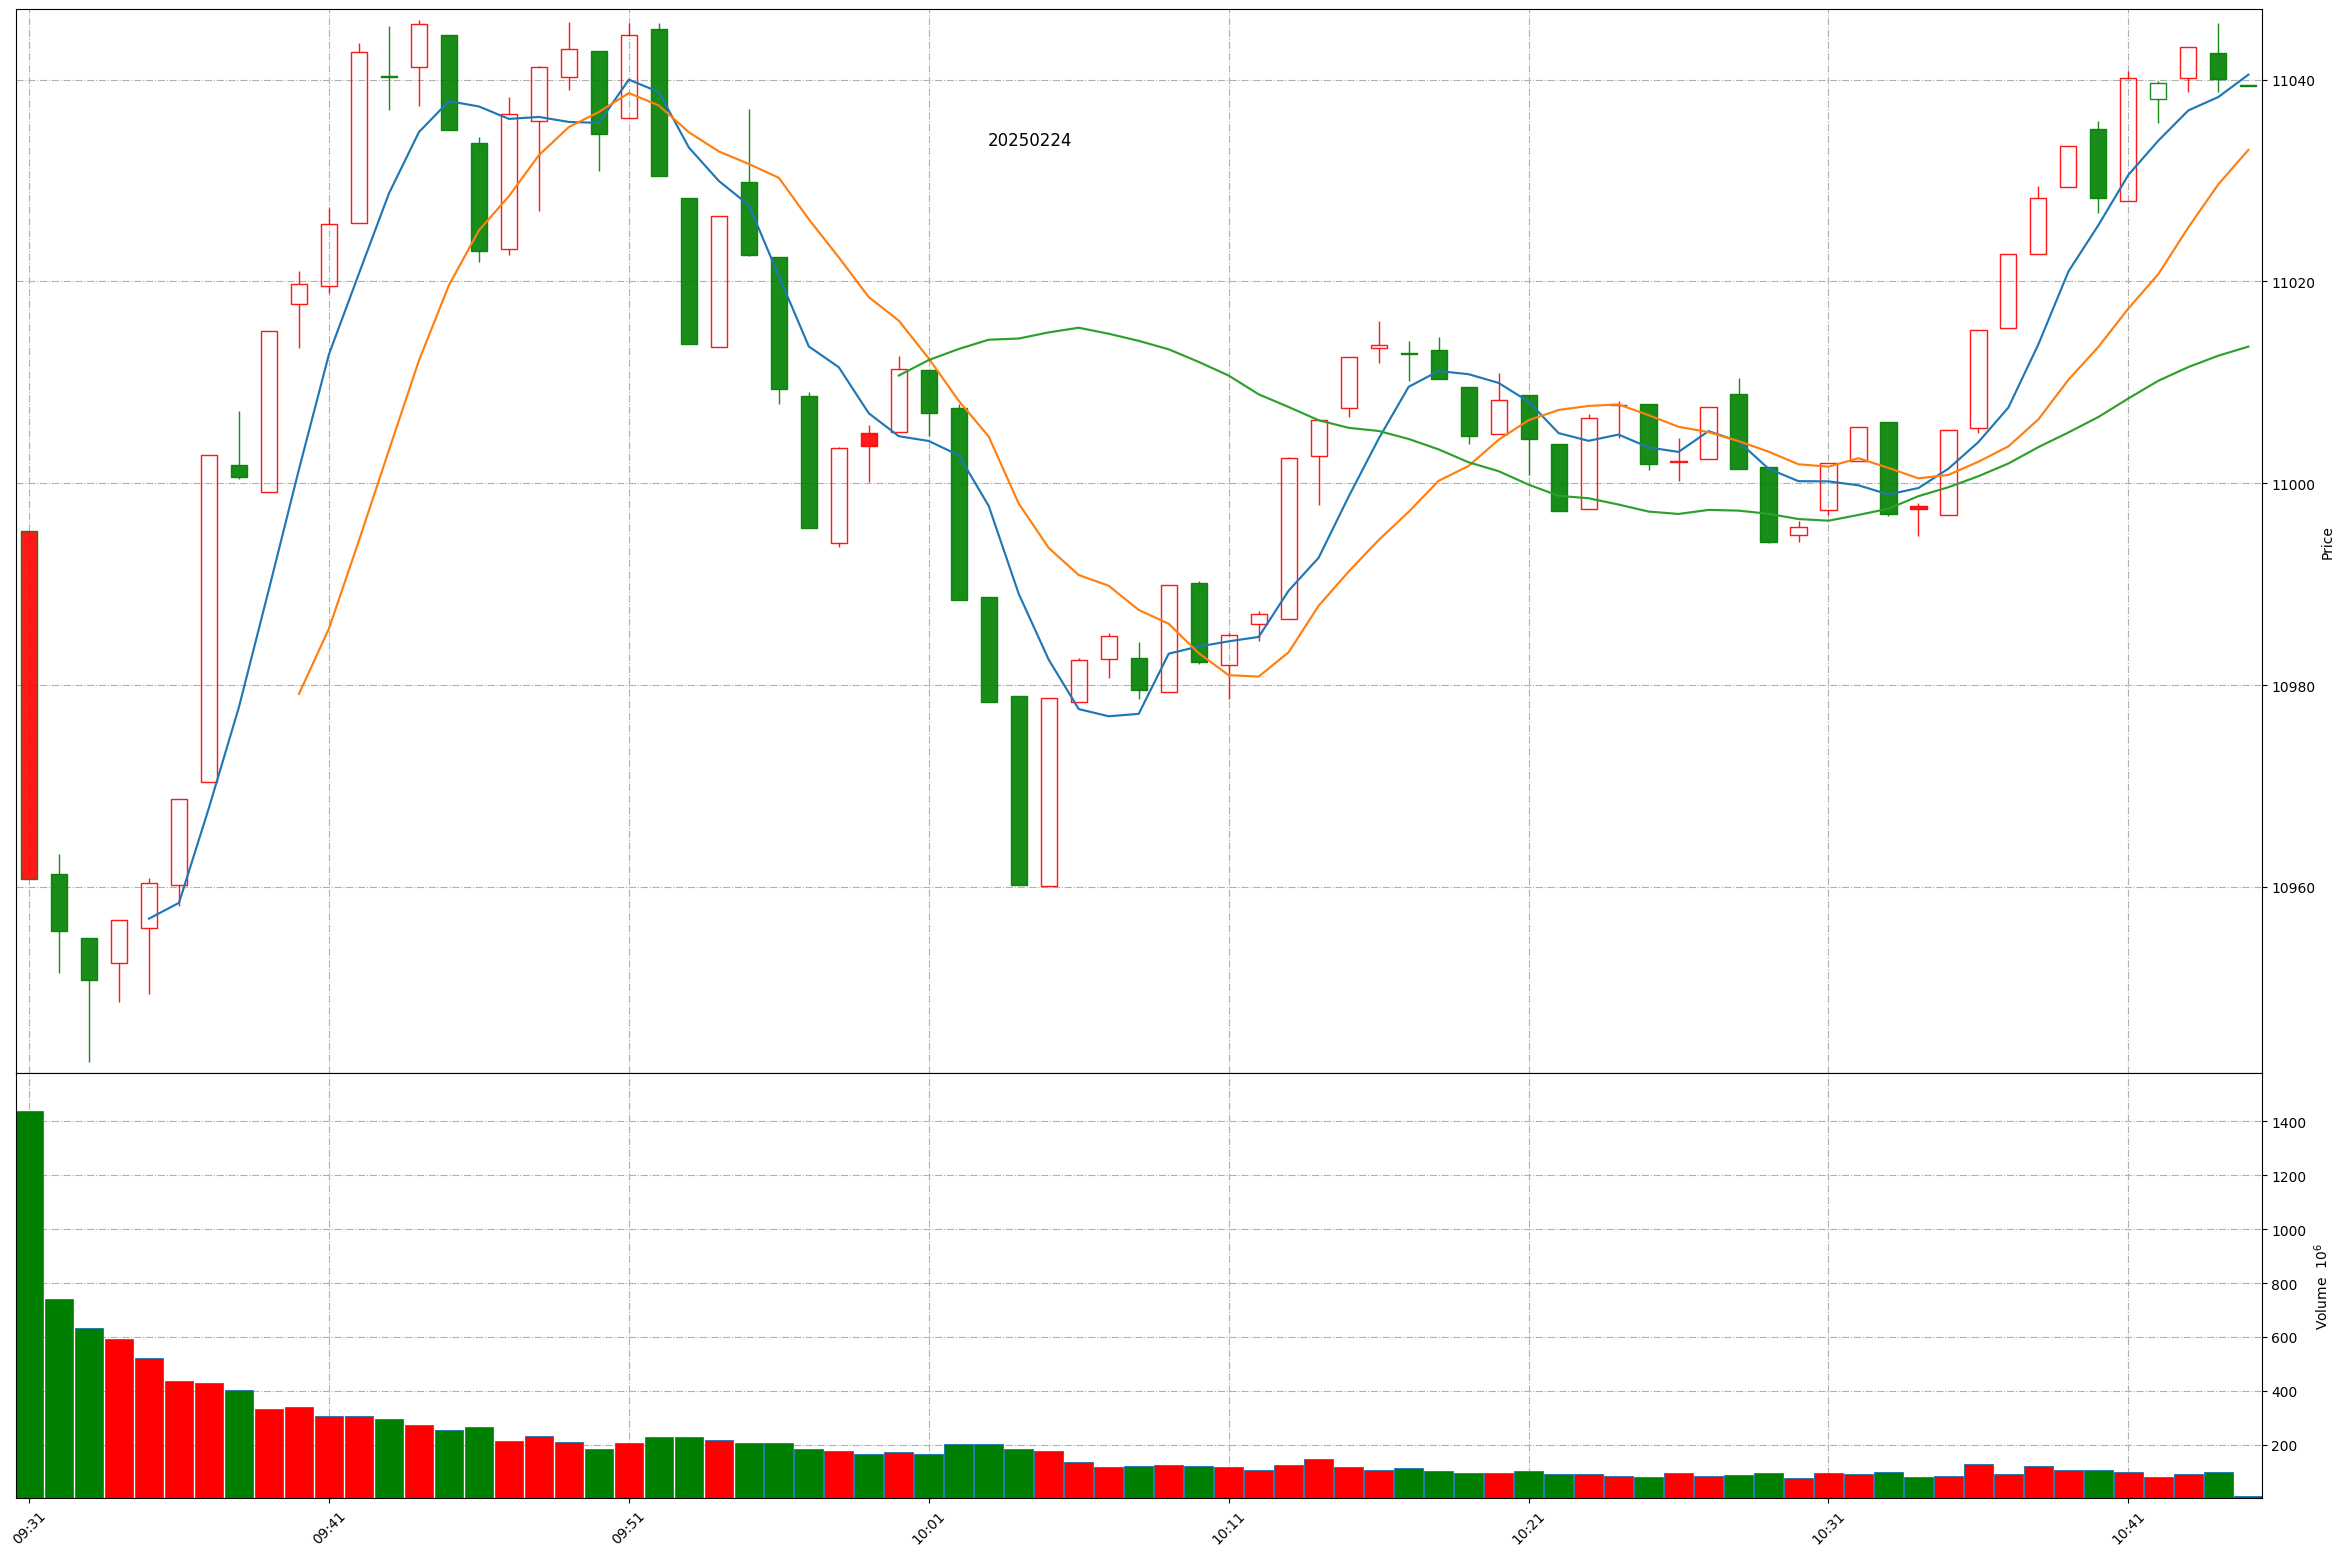
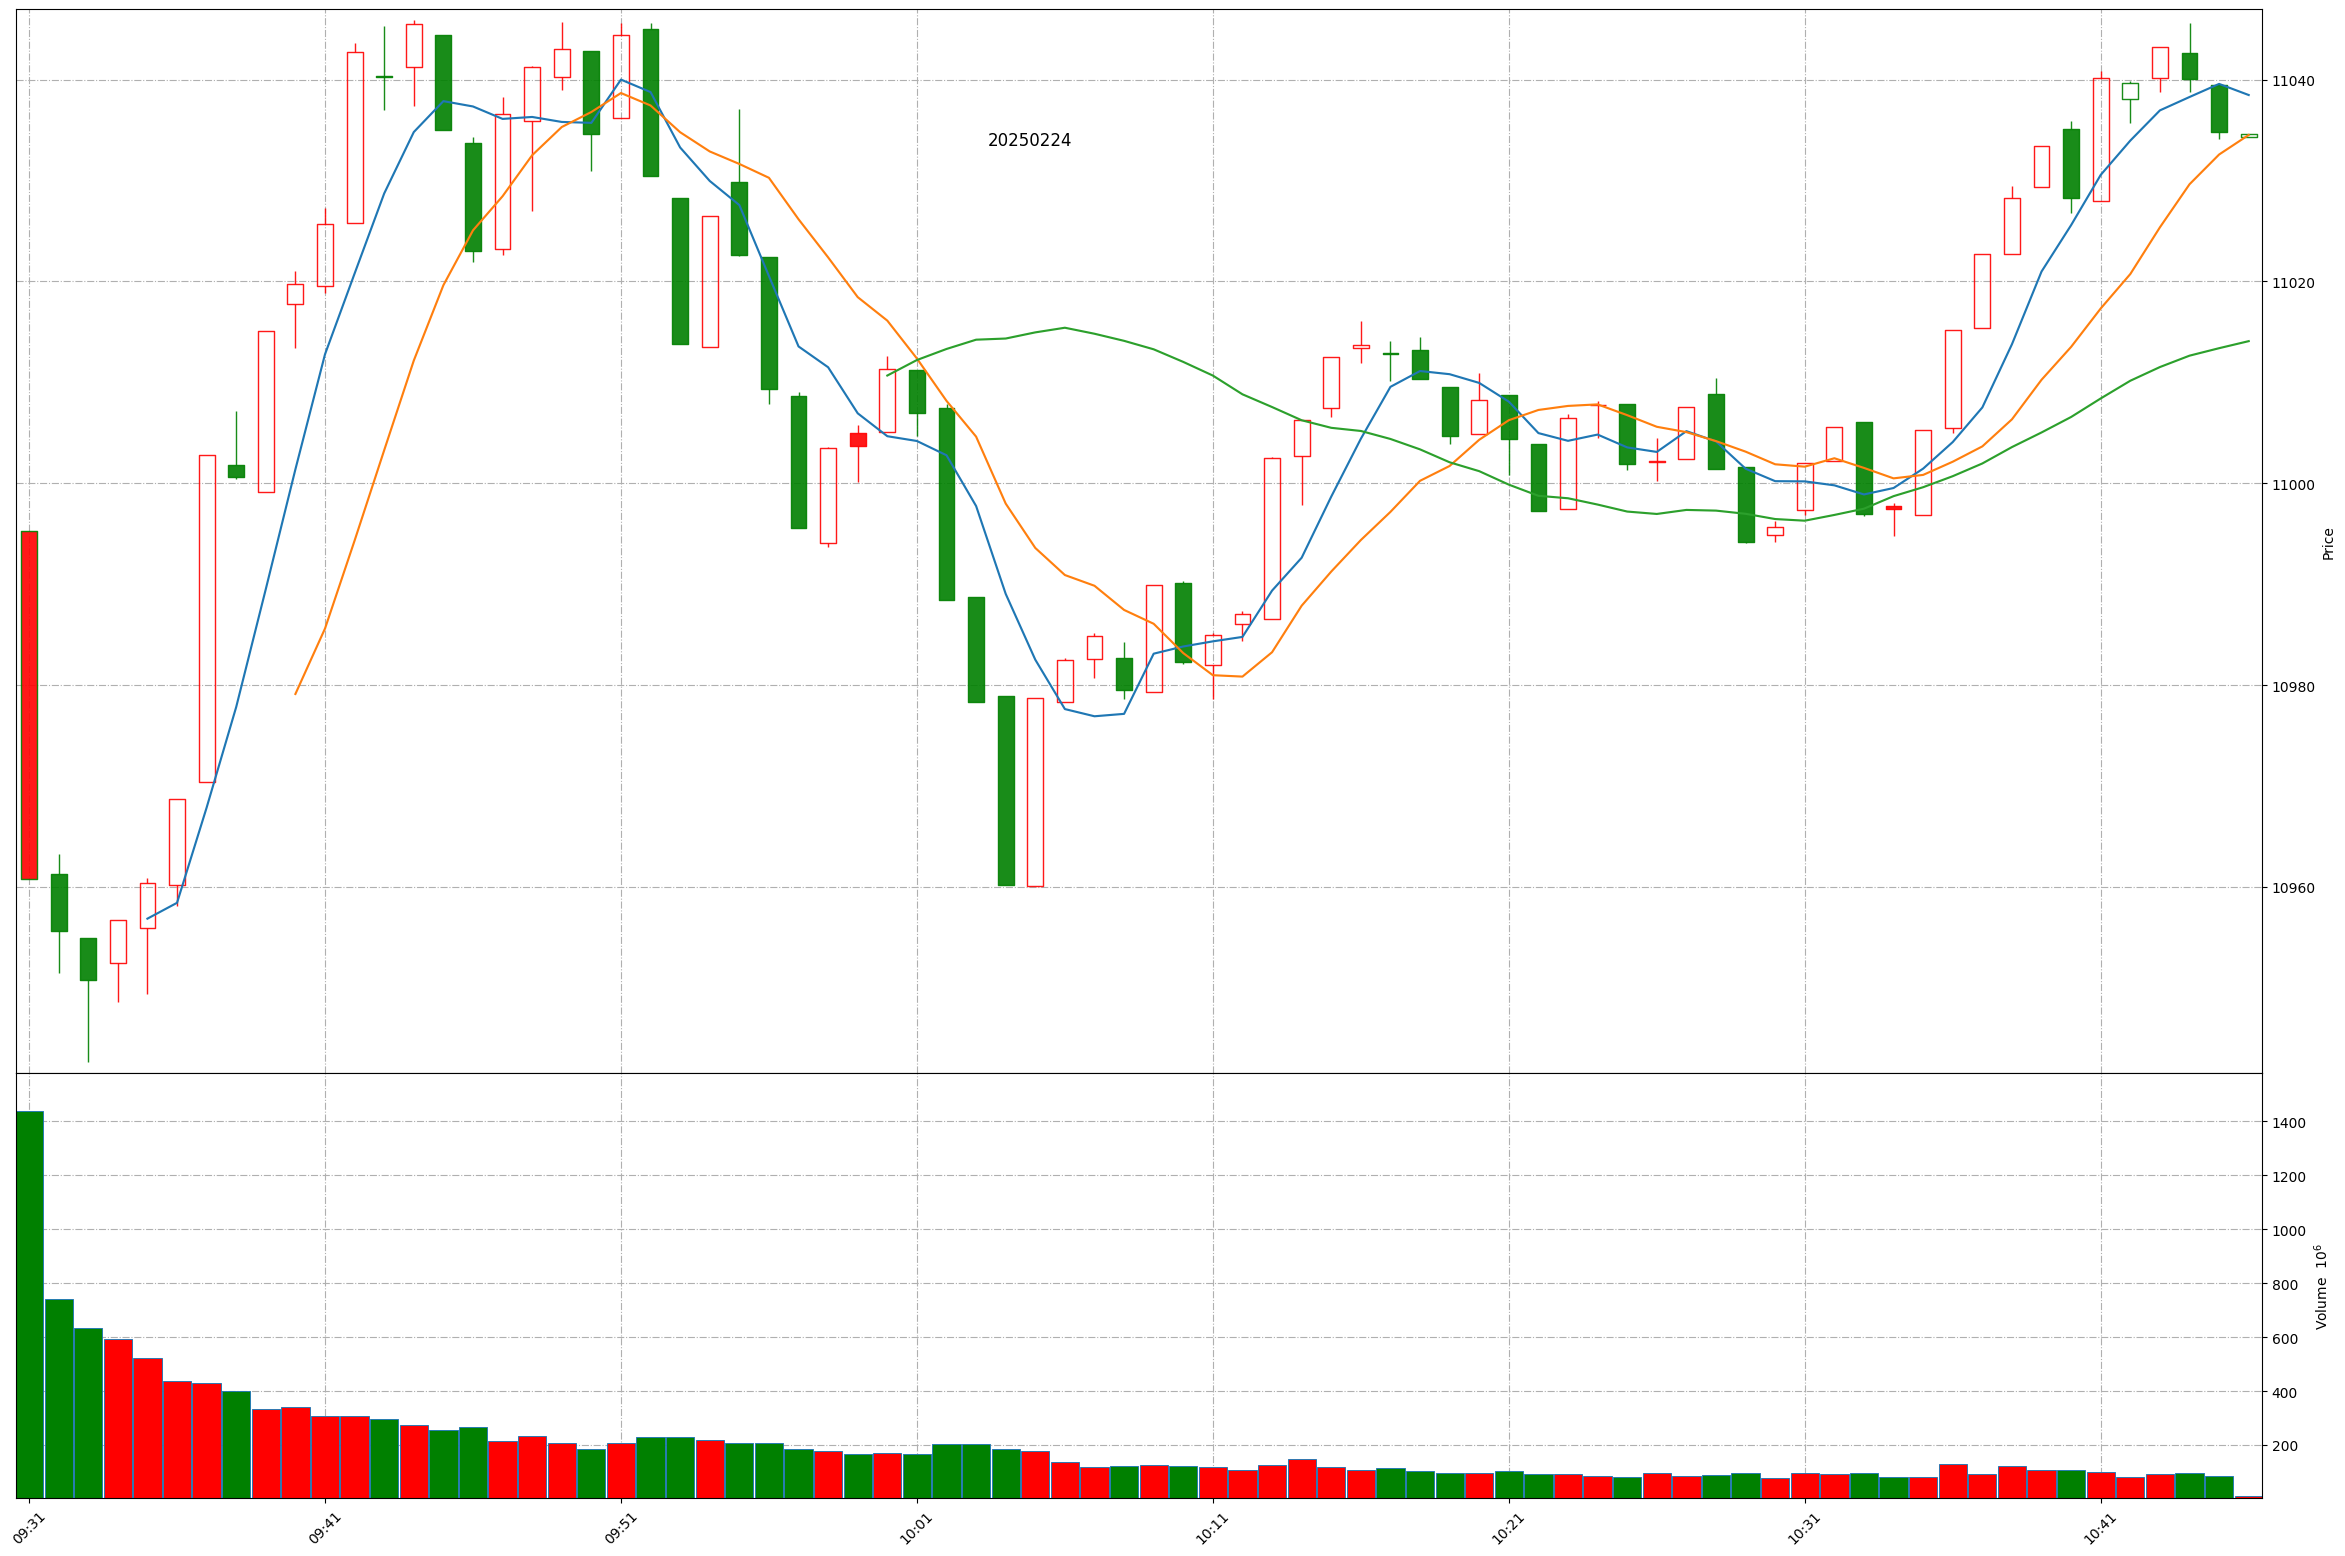
Github action update at 2025-02-24 10:45:17.

diff --git a/README.md b/README.md
@@ -1,11 +1,11 @@
 
 # Daily-A-share-market-quotes 每日 A 股指数（5min 更新）- 20250224
 
-### 上证指数 20250224 10:44
+### 上证指数 20250224 10:45
 ![](./fig/2025/2/20250224-sh000001.png)
 
-### 深证成指 20250224 10:44
+### 深证成指 20250224 10:45
 ![](./fig/2025/2/20250224-sz399001.png)
 
-### 北证50 20250224 10:44
+### 北证50 20250224 10:45
 ![](./fig/2025/2/20250224-bj899050.png)
